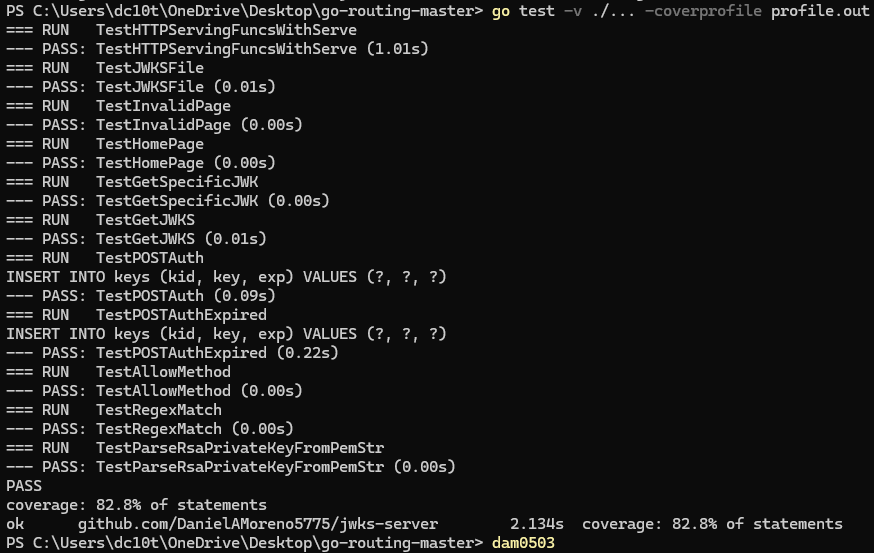
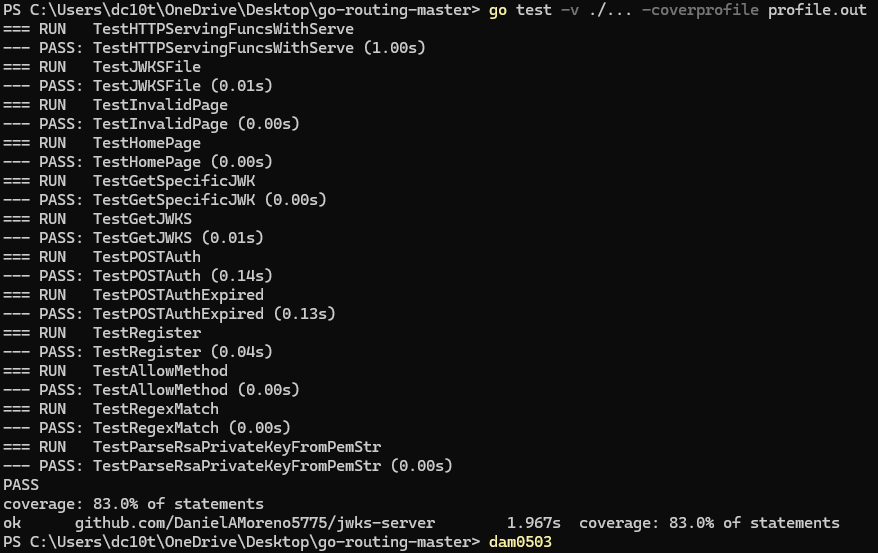
Lint rate limiter and update README

Changed region(s): [[0.0, 0.0, 1.0, 1.0]]

diff --git a/route.go b/route.go
@@ -75,13 +75,14 @@ type params struct {
 	keyLength   uint32 //units in bytes, AES needs 32
 }
 
-// define the rate limiter to permit a maximum burst size of 10
+// define the token bucket rate limiter to permit a maximum burst size of 10
 var limiter = rate.NewLimiter(1, 10)
 
 // function to return 429 status code if too many requests are made based on token buckets
 func limit(next http.Handler) http.Handler {
 	return http.HandlerFunc(func(w http.ResponseWriter, r *http.Request) {
-		if limiter.Allow() == false {
+		//if limiter.Allow() as defined by the above variable returns a false, print a 429 status code and return without serving
+		if !limiter.Allow() {
 			http.Error(w, http.StatusText(http.StatusTooManyRequests), http.StatusTooManyRequests)
 			return
 		}
@@ -90,6 +91,7 @@ func limit(next http.Handler) http.Handler {
 	})
 }
 
+// function to serve up the allowed pages based on regex matching or return a 405 status code
 func Serve(w http.ResponseWriter, r *http.Request) {
 	var h http.Handler
 
@@ -259,6 +261,16 @@ func register(w http.ResponseWriter, r *http.Request) {
 	statement.Exec(registrationDetails.Username, hash, registrationDetails.Email, "2024-01-01 17:51:31")
 }
 
+/*
+	hash the passed password string based on the params structure and the Argon2 standard
+	standard Argon2 format would be $argon2id$v=19$m=65536,t=3,p=2$c29tZXNhbHQ$RdescudvJCsgt3ub+b+dWRWJTmaaJObG
+	$argon2id is the variant being used
+	$v=19 is the version
+	$m=65536,t=3,p=2 represent the memory (m), iterations (t), and parallelism (p) parameters being used
+	$c29tZXNhbHQ is the base64-encoded salt, without padding
+
+/ $RdescudvJCsgt3ub+b+dWRWJTmaaJObG is the base64-encoded hashed password, without padding
+*/
 func hashPassword(password string, p *params) (encodedHash string, err error) {
 	// Generate a cryptographically secure random salt using random bytes
 	salt, err := generateRandomBytes(p.saltLength)
@@ -280,14 +292,7 @@ func hashPassword(password string, p *params) (encodedHash string, err error) {
 	b64Hash = strings.ReplaceAll(b64Hash, "=", "")
 
 	//construct the encoded hash in standard Argon2 format like $argon2id$v=19$m=65536,t=3,p=2$c29tZXNhbHQ$RdescudvJCsgt3ub+b+dWRWJTmaaJObG
-	//$argon2id is the variant being used
-	//$v=19 is the version
-	//$m=65536,t=3,p=2 represent the memory (m), iterations (t), and parallelism (p) parameters being used
-	//$c29tZXNhbHQ is the base64-encoded salt, without padding
-	//$RdescudvJCsgt3ub+b+dWRWJTmaaJObG is the base64-encoded hashed password, without padding
 	encodedHash = fmt.Sprintf("$argon2id$v=%d$m=%d,t=%d,p=%d$%s$%s", argon2.Version, p.memory, p.iterations, p.parallelism, b64Salt, b64Hash)
-
-	//use https://www.alexedwards.net/blog/how-to-hash-and-verify-passwords-with-argon2-in-go to verify hashs
 
 	return encodedHash, nil
 }
@@ -393,7 +398,6 @@ func prettyprint(b []byte) ([]byte, error) {
 }
 
 // called when a page is gotten, displaying the page for the user
-// rate limiting:https://www.alexedwards.net/blog/how-to-rate-limit-http-requests
 func auth(w http.ResponseWriter, r *http.Request) {
 	//declare a new userRegDetails struct
 	var authenticationDetails userAuthRequest
@@ -553,29 +557,6 @@ func jwksPage(w http.ResponseWriter, r *http.Request) {
 			//assemble the data from the retrieved key
 			jsonJWK += fmt.Sprintf("{\"kid\":\"%d\", \"alg\": \"RS256\", \"kty\": \"RSA\", \"use\": \"sig\", \"n\":\"%s\", \"e\":\"%s\", \"exp\":\"%d\"},", kid, modulusBytes, privateExponentBytes, exp)
 		}
-
-		/*if strings.Contains(key, "-----BEGIN RSA PRIVATE KEY-----") {
-			//parse the key to get rsa.PrivateKey
-			parsedPrivateKey, _ := ParseRsaPrivateKeyFromPemStr(key)
-
-			//extract the modulus bytes (n)
-			modulusBytes = base64.StdEncoding.EncodeToString(parsedPrivateKey.N.Bytes())
-			modulusBytes = strings.ReplaceAll(modulusBytes, "/", "_")
-			modulusBytes = strings.ReplaceAll(modulusBytes, "+", "-")
-			modulusBytes = strings.ReplaceAll(modulusBytes, "=", "")
-			if (len(modulusBytes) % 2) != 0 {
-				modulusBytes = "A" + modulusBytes
-			}
-
-			//set the exponent bytes
-			privateExponentBytes = "AQAB"
-
-			//if the key is not expired, append it to the JSON string
-			if exp > time.Now().Unix() {
-				//assemble the data from the retrieved key
-				jsonJWK += fmt.Sprintf("{\"kid\":\"%d\", \"alg\": \"RS256\", \"kty\": \"RSA\", \"use\": \"sig\", \"n\":\"%s\", \"e\":\"%s\", \"exp\":\"%d\"},", kid, modulusBytes, privateExponentBytes, exp)
-			}
-		}*/
 	}
 
 	//handle trailing commas and close up the JSON

diff --git a/main.go b/main.go
@@ -50,10 +50,11 @@ func mainActual(w io.Writer, h http.HandlerFunc, timeServed int64) {
 }
 
 func startHttpServer(wg *sync.WaitGroup, h http.HandlerFunc) *http.Server {
-	//calls the handler function
+	//create servemux (or router) to store a mapping between predefined URL paths for app and handlers
 	mux := http.NewServeMux()
+	//calls the handler function on the servemux
 	mux.HandleFunc("/", h)
-
+	//add the defined global constant port variable and the returned value from limit() to the server structure
 	srv := &http.Server{Addr: port, Handler: limit(mux)}
 
 	go func() {

diff --git a/README.md b/README.md
@@ -44,3 +44,4 @@ If you ran `go run main.go route.go` but never got the response of `Server liste
 ![Coverage of Custom Test Suite](./Custom-Test-Suite-Screenshot.png)
 ![Rubric Result of Gradebot Project 1](./Gradebot-Screenshot-Project1.png)
 ![Rubric Result of Gradebot Project 2](./Gradebot-Screenshot-Project2.png)
+![Rubric Result of Gradebot Project 3](./Gradebot-Screenshot-Project3.png)
